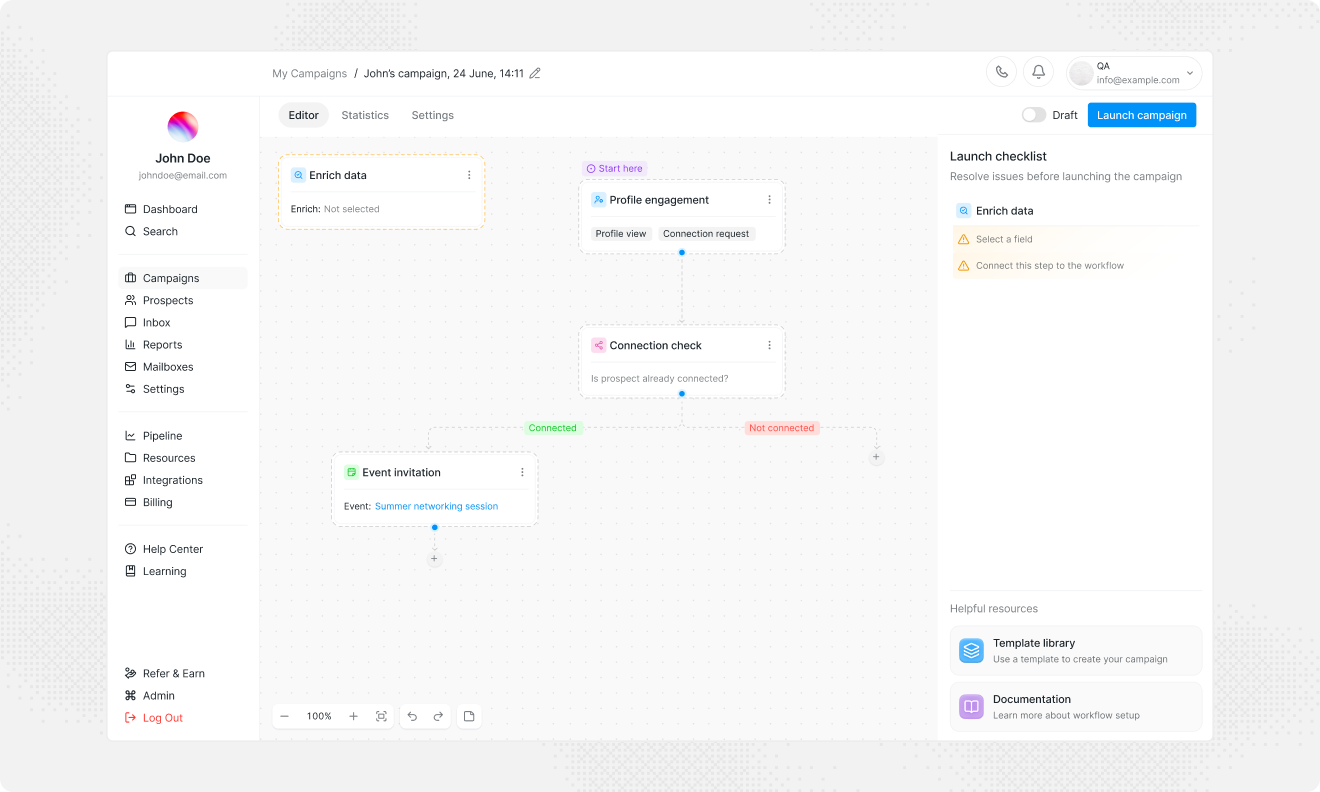
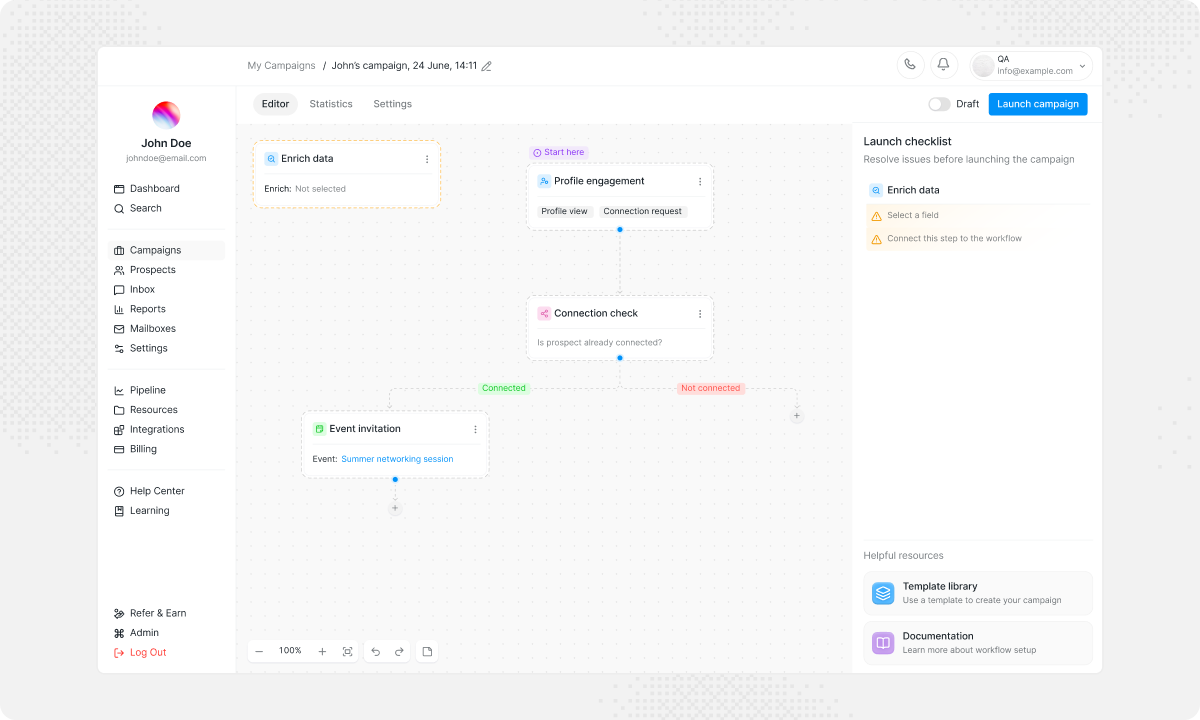
Update homepage case covers and order

diff --git a/src/data/site.ts b/src/data/site.ts
@@ -1,5 +1,5 @@
 import campaignBuilderCover from '@/assets/campaign-builder-cover.png'
-import customPromptsCover from '@/assets/custom-prompts-case/post-ai-comment-step.png'
+import customPromptsCover from '@/assets/custom-prompts-cover.png'
 import voiceMessagingCover from '@/assets/voice-messaging-cover.png'
 
 export const siteConfig = {
@@ -17,16 +17,6 @@ export const siteConfig = {
 } as const
 
 export const projects = [
-  {
-    title: 'Custom Prompts: From Preset Tones to a Reusable AI Writing System',
-    description:
-      'I designed a reusable prompt system for Buzz.ai’s AI Comments, helping outreach teams control the style, language, and structure of generated LinkedIn comments.',
-    company: 'Buzz.ai',
-    role: 'Product Designer',
-    year: '2025',
-    cover: customPromptsCover,
-    href: '/projects/custom-prompts-ai-comments',
-  },
   {
     title: 'Campaign Builder: One Workflow for Simple and Complex Campaigns',
     description:
@@ -46,5 +36,15 @@ export const projects = [
     year: '2026',
     cover: voiceMessagingCover,
     href: '/projects/voice-notes-for-outreach',
+  },
+  {
+    title: 'Custom Prompts: From Preset Tones to a Reusable AI Writing System',
+    description:
+      'I designed a reusable prompt system for Buzz.ai’s AI Comments, helping outreach teams control the style, language, and structure of generated LinkedIn comments.',
+    company: 'Buzz.ai',
+    role: 'Product Designer',
+    year: '2025',
+    cover: customPromptsCover,
+    href: '/projects/custom-prompts-ai-comments',
   },
 ] as const
